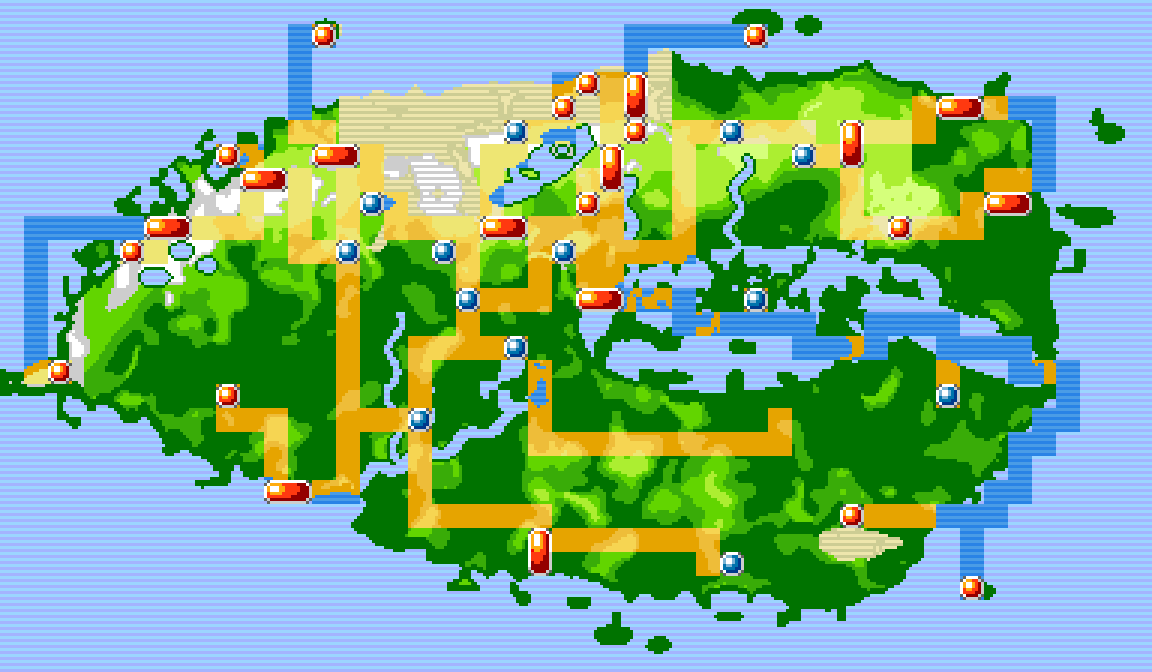
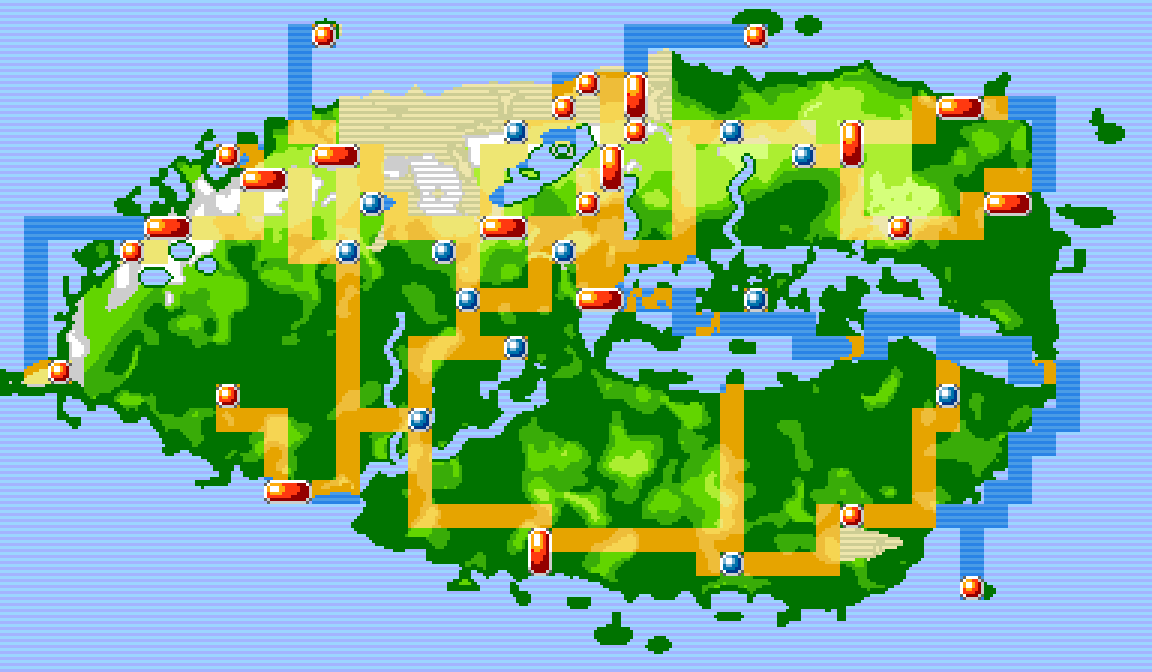
Regiokaart variant 2: routes in het oosten logischer (kust Rio-Salvador-Lençóis-Belém, jungleroute naar de binnenzee)

Changed region(s): [[0.4375, 0.5312, 0.75, 0.875], [0.7812, 0.5938, 0.8438, 0.75]]

diff --git a/tools/concept/regiokaart2.py b/tools/concept/regiokaart2.py
@@ -392,7 +392,9 @@ path((34, 6), (34, 6))                                     # Salento -> Medellí
 path((36, 5), (38, 5), (38, 4))                            # Medellín -> Cartagena
 path((35, 7), (35, 9), (36, 9))                            # Medellín -> reuzentepui
 path((38, 9), (40, 9), (40, 8))                            # tepui -> Paramaribo
-path((22, 15), (22, 18), (32, 18), (32, 17))               # dwars door de jungle naar de zuidoever van de binnenzee (late game)
+path((31, 23), (34, 23), (34, 21))                         # Salvador -> Lençóis
+path((36, 21), (38, 21), (38, 17), (39, 17))               # Lençóis -> Belém
+path((30, 22), (30, 16))                                   # Salvador -> door de jungle naar de binnenzee (late game)
 
 river_route = np.zeros((H, W), bool)
 from collections import deque
